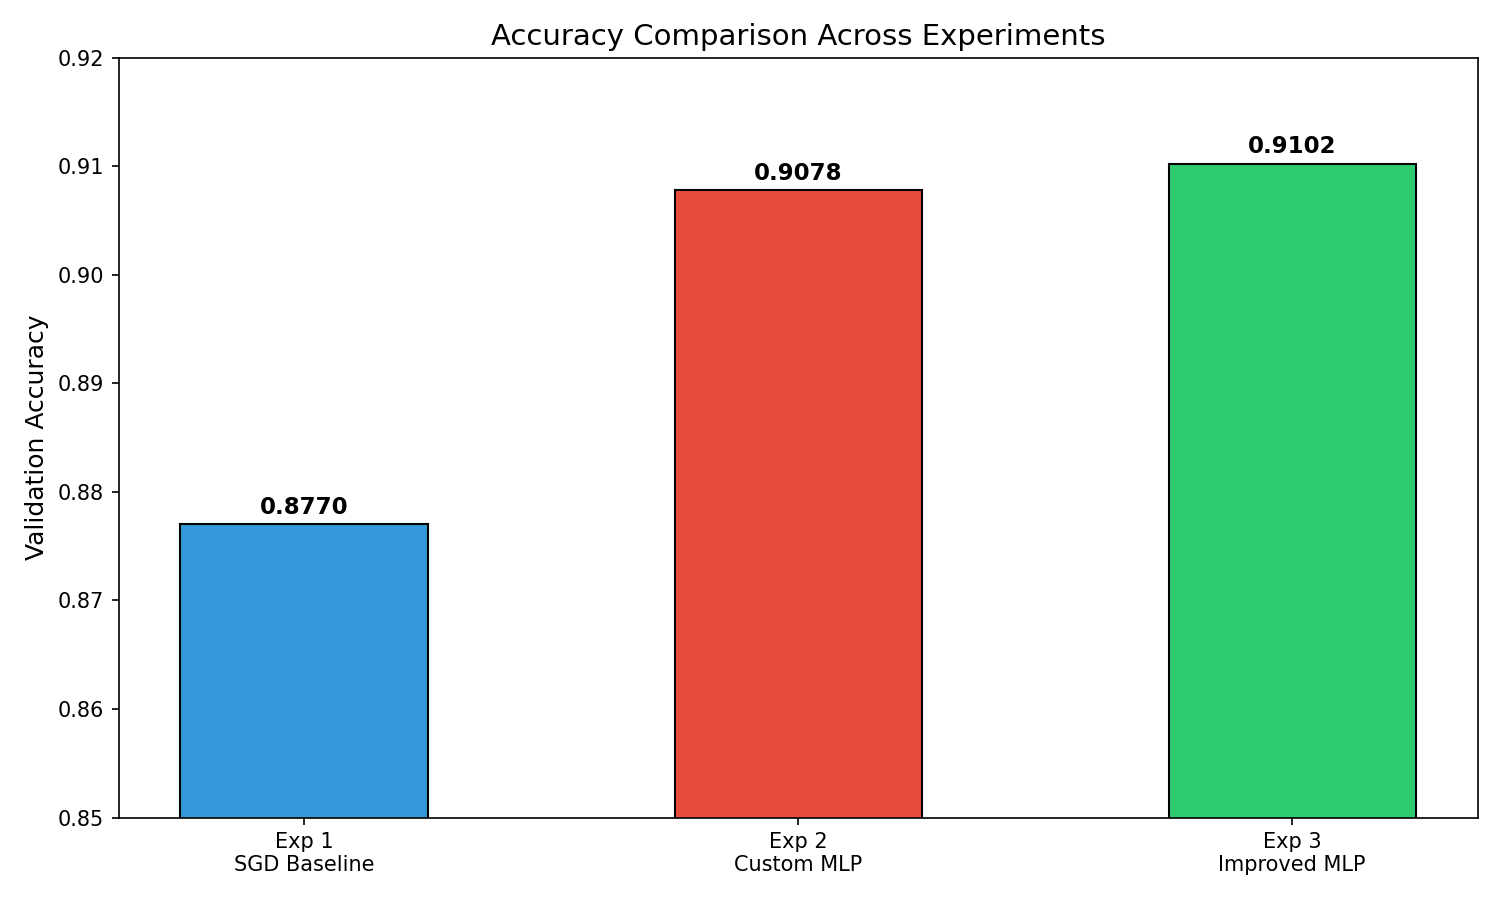
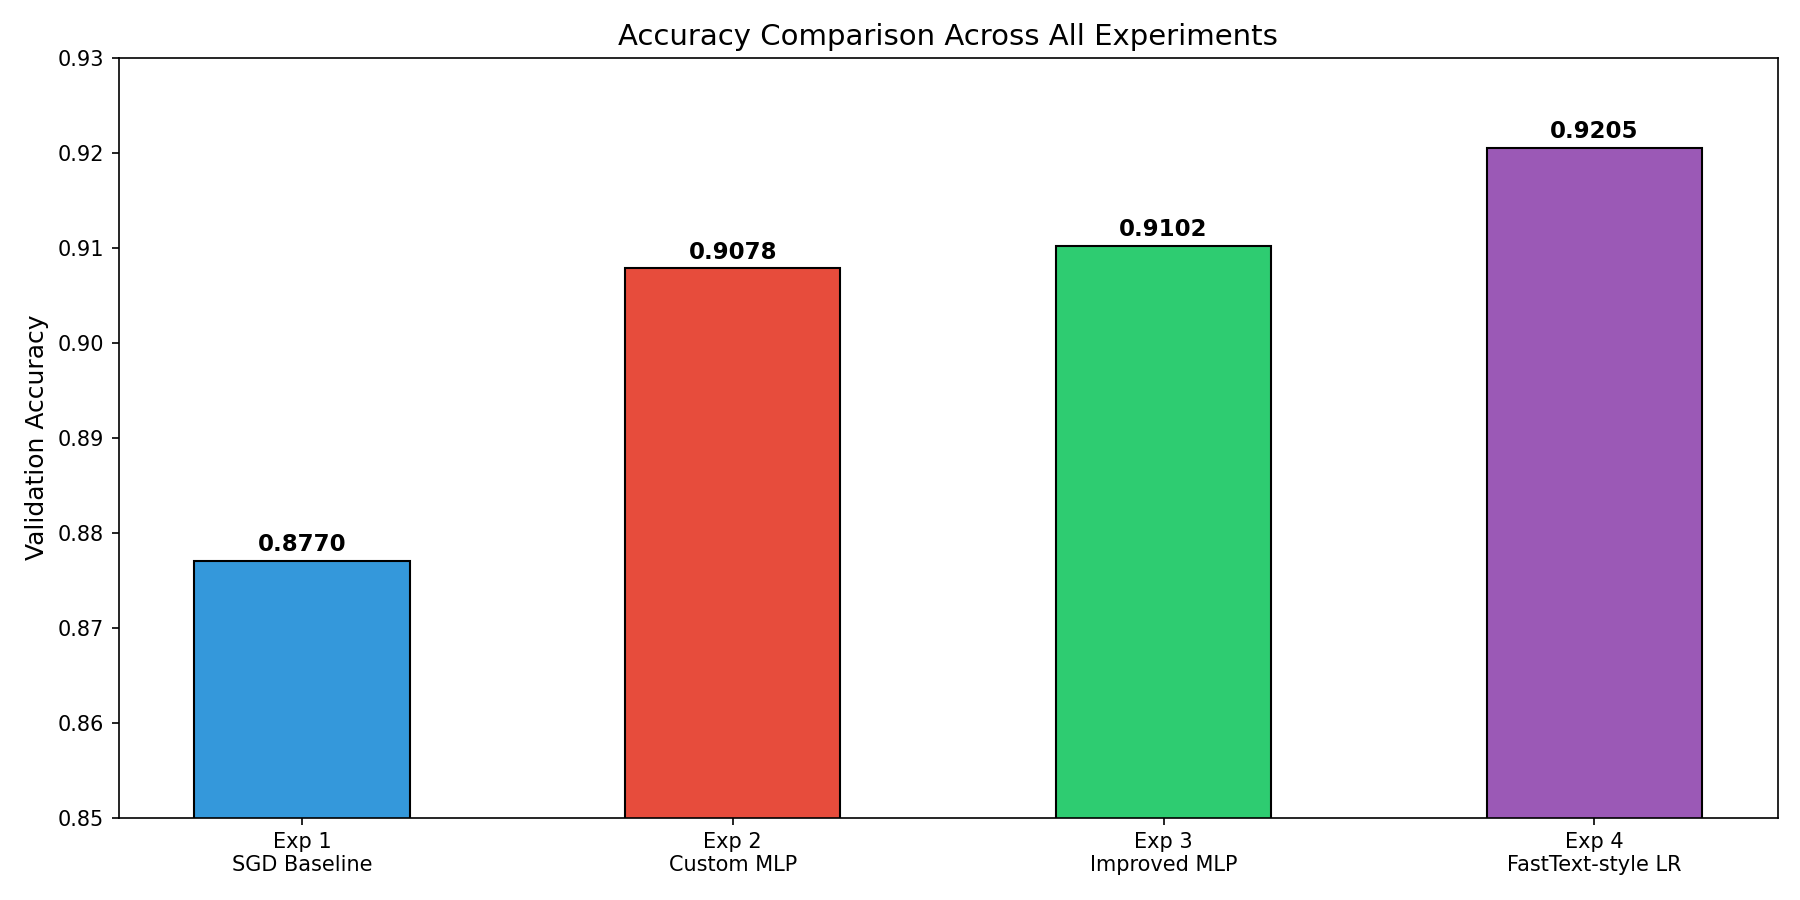
Add FastText experiment 4 results, updated accuracy comparison, experiment log

diff --git a/experiments/experiment_log.md b/experiments/experiment_log.md
@@ -61,3 +61,17 @@
 - Least multilingual class: home_and_hobbies (9.8%)
 - Key insight: multilingual content + low sample size = poor performance
 - HashingVectorizer handles unicode natively which helps multilingual classes
+
+## Experiment 4: FastText-style (Word + Character NGrams + Logistic Regression)
+- Date: 22-03-2026
+- Model: TF-IDF (word bigrams + char 3-5grams) + Logistic Regression
+- Word features: 50,000 | Char features: 50,000 | Combined: 100,000
+- Optimizer: saga, C=5.0, max_iter=500
+- Training time: 1649.7s (~27.5 mins)
+- Val Accuracy: 92.05%
+- Macro F1: 0.86
+- Notes: BEST performing model overall! Classical ML beat deep learning.
+  Character ngrams capture subword morphology — crucial for Hindi/multilingual content.
+  travel_and_tourism F1: 0.99 (95.6% multilingual — char ngrams helped!)
+  art_and_design still weakest (F1: 0.64) — low sample size issue persists.
+  Key insight: for multilingual text, character-level features are very powerful.

diff --git a/README.md b/README.md
@@ -87,3 +87,16 @@ Available topic labels:
 - Features: HashingVectorizer bigrams (2^16 features)
 - Hardware: Tesla T4 GPU
 - Training Time: ~227s per epoch x 8 epochs
+
+## Model Weights
+
+Due to GitHub's 100MB file size limit, model weights are hosted on Google Drive:
+
+| Model | Link | Size |
+|---|---|---|
+| Final Model (best_model.pt) | [Download](https://drive.google.com/file/d/1gptMK0exara7DjeUpKIVuIr2CQsqEi-T/view?usp=sharing) | 258 MB |
+
+To use the weights:
+1. Download `best_model.pt` from the link above
+2. Place it in `final_models/` directory
+3. Run inference as described above
